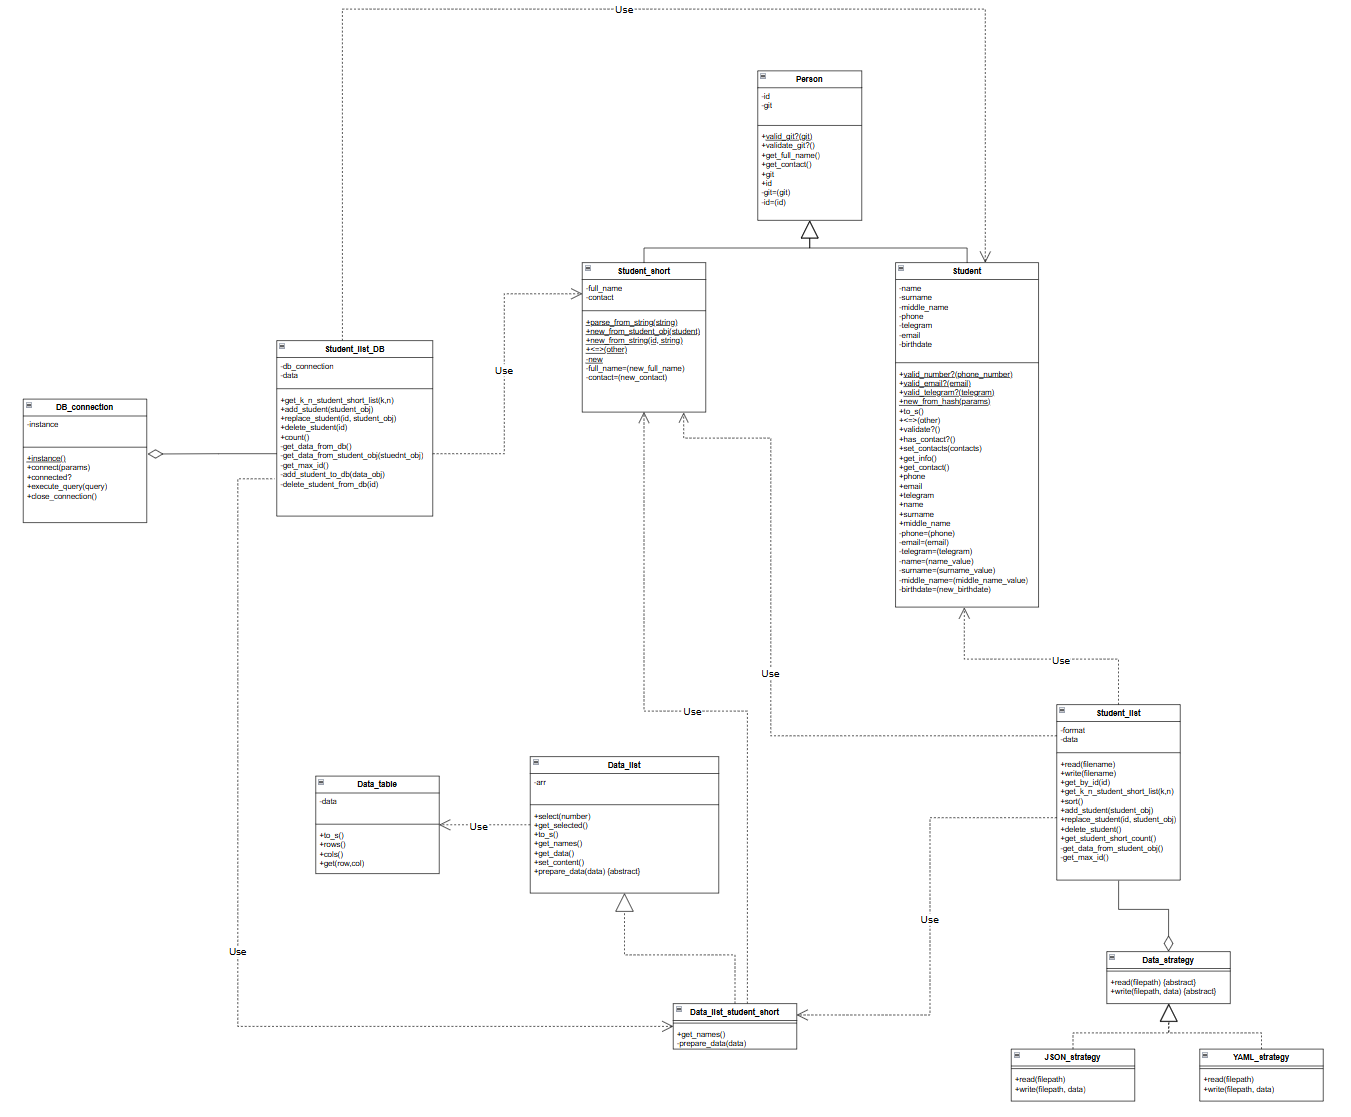
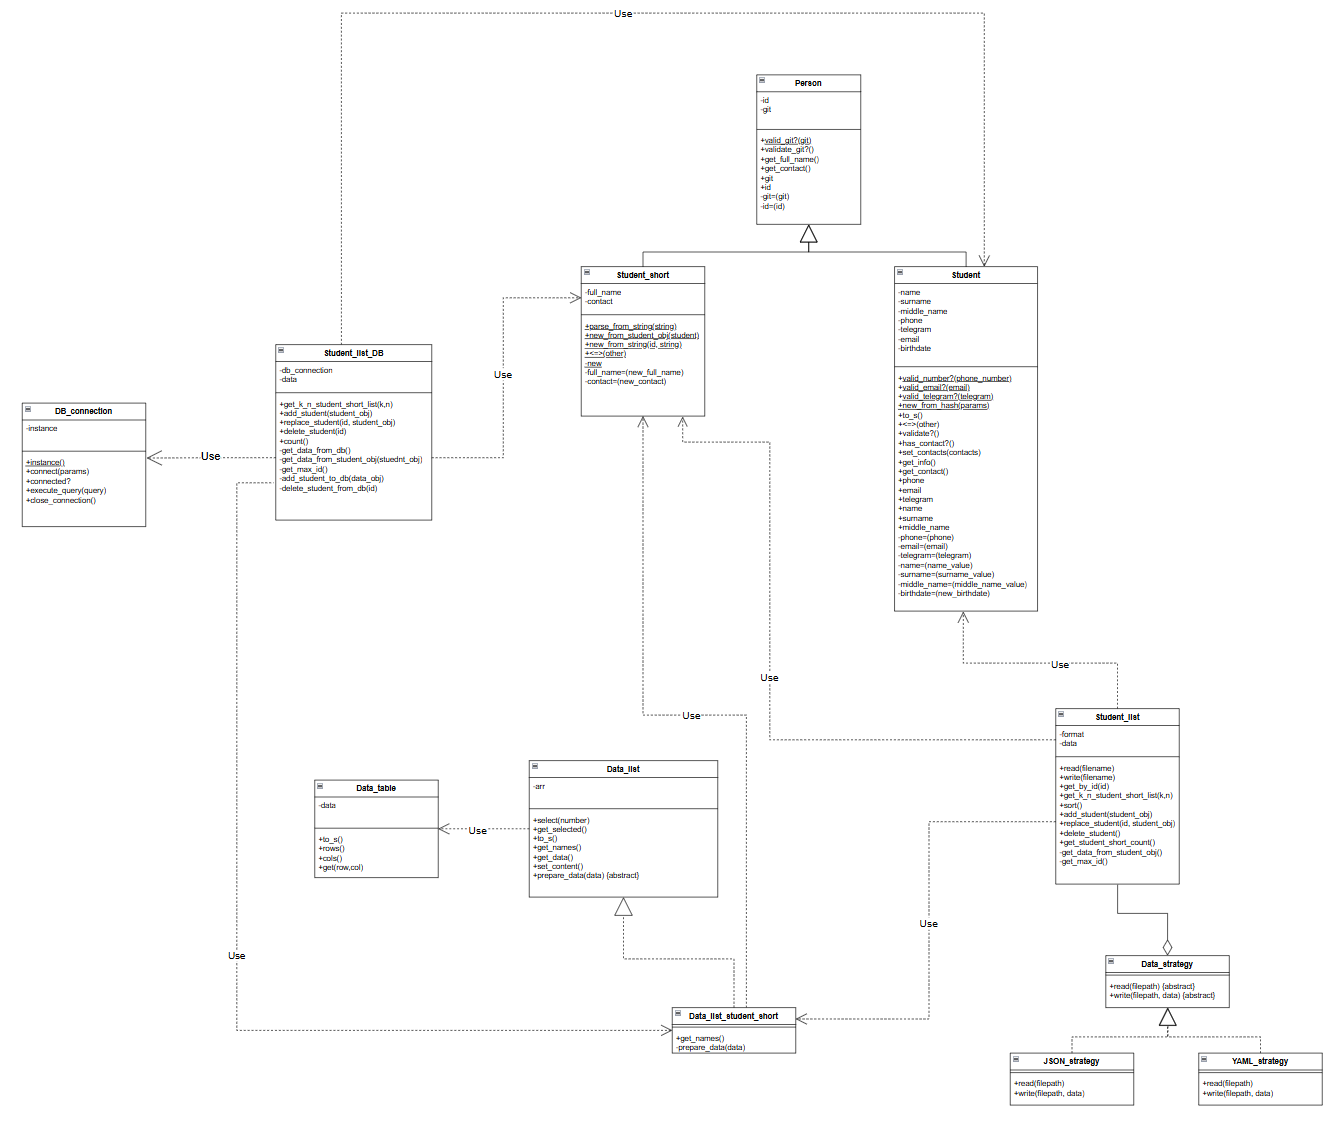
lab4 final_fixes

diff --git a/Students/database-connection/Student_list_DB.rb b/Students/database-connection/Student_list_DB.rb
@@ -5,8 +5,6 @@ require_relative '../models/data_list/data_list_student_short.rb'
 require_relative 'db_connection.rb'
 class Student_list_DB
     def initialize()
-        @db_connection = DB_connection.instance
-        @db_connection.connect()
         @data = get_data_from_db()
     end
 
@@ -56,7 +54,7 @@ class Student_list_DB
 
     private 
     def get_data_from_db()
-        query_result = @db_connection.execute_query("SELECT * FROM student")
+        query_result = DB_connection.instance.execute_query("SELECT * FROM student")
         data = []
         query_result.each do |row|
             row["id"] = row["id"].to_i #Преобразую типы, т.к из бд integer приходит как строка
@@ -87,12 +85,12 @@ class Student_list_DB
     def add_student_to_db(data_obj)
         query = "INSERT INTO student(id,name,surname,middle_name, phone,telegram,email,git) 
         VALUES (#{data_obj[:id]}, '#{data_obj[:name]}', '#{data_obj[:surname]}','#{data_obj[:middle_name]}', '#{data_obj[:phone]}','#{data_obj[:telegram]}', '#{data_obj[:email]}', '#{data_obj[:git]}')"
-        @db_connection.execute_query(query)
+        DB_connection.instance.execute_query(query)
     end
 
     def delete_student_from_db(id)
         query = "DELETE FROM student WHERE id=#{id}"
-        @db_connection.execute_query(query)
+        DB_connection.instance.execute_query(query)
     end
 end
 

diff --git a/Students/examples/demo_database.rb b/Students/examples/demo_database.rb
@@ -1,8 +1,9 @@
 # main.rb
 
 require_relative '../database-connection/student_list_DB.rb'
-
+DB_connection.instance.connect()
 # Создание объекта Student_list_DB
+
 student_list_db = Student_list_DB.new
 
 # Создание нового студента
@@ -32,3 +33,5 @@ puts student_list_db.get_k_n_student_short_list(30, 1).get_data()
 
 # Получение количества студентов
 puts "Total number of students: #{student_list_db.count}"
+
+DB_connection.instance.close_connection()
